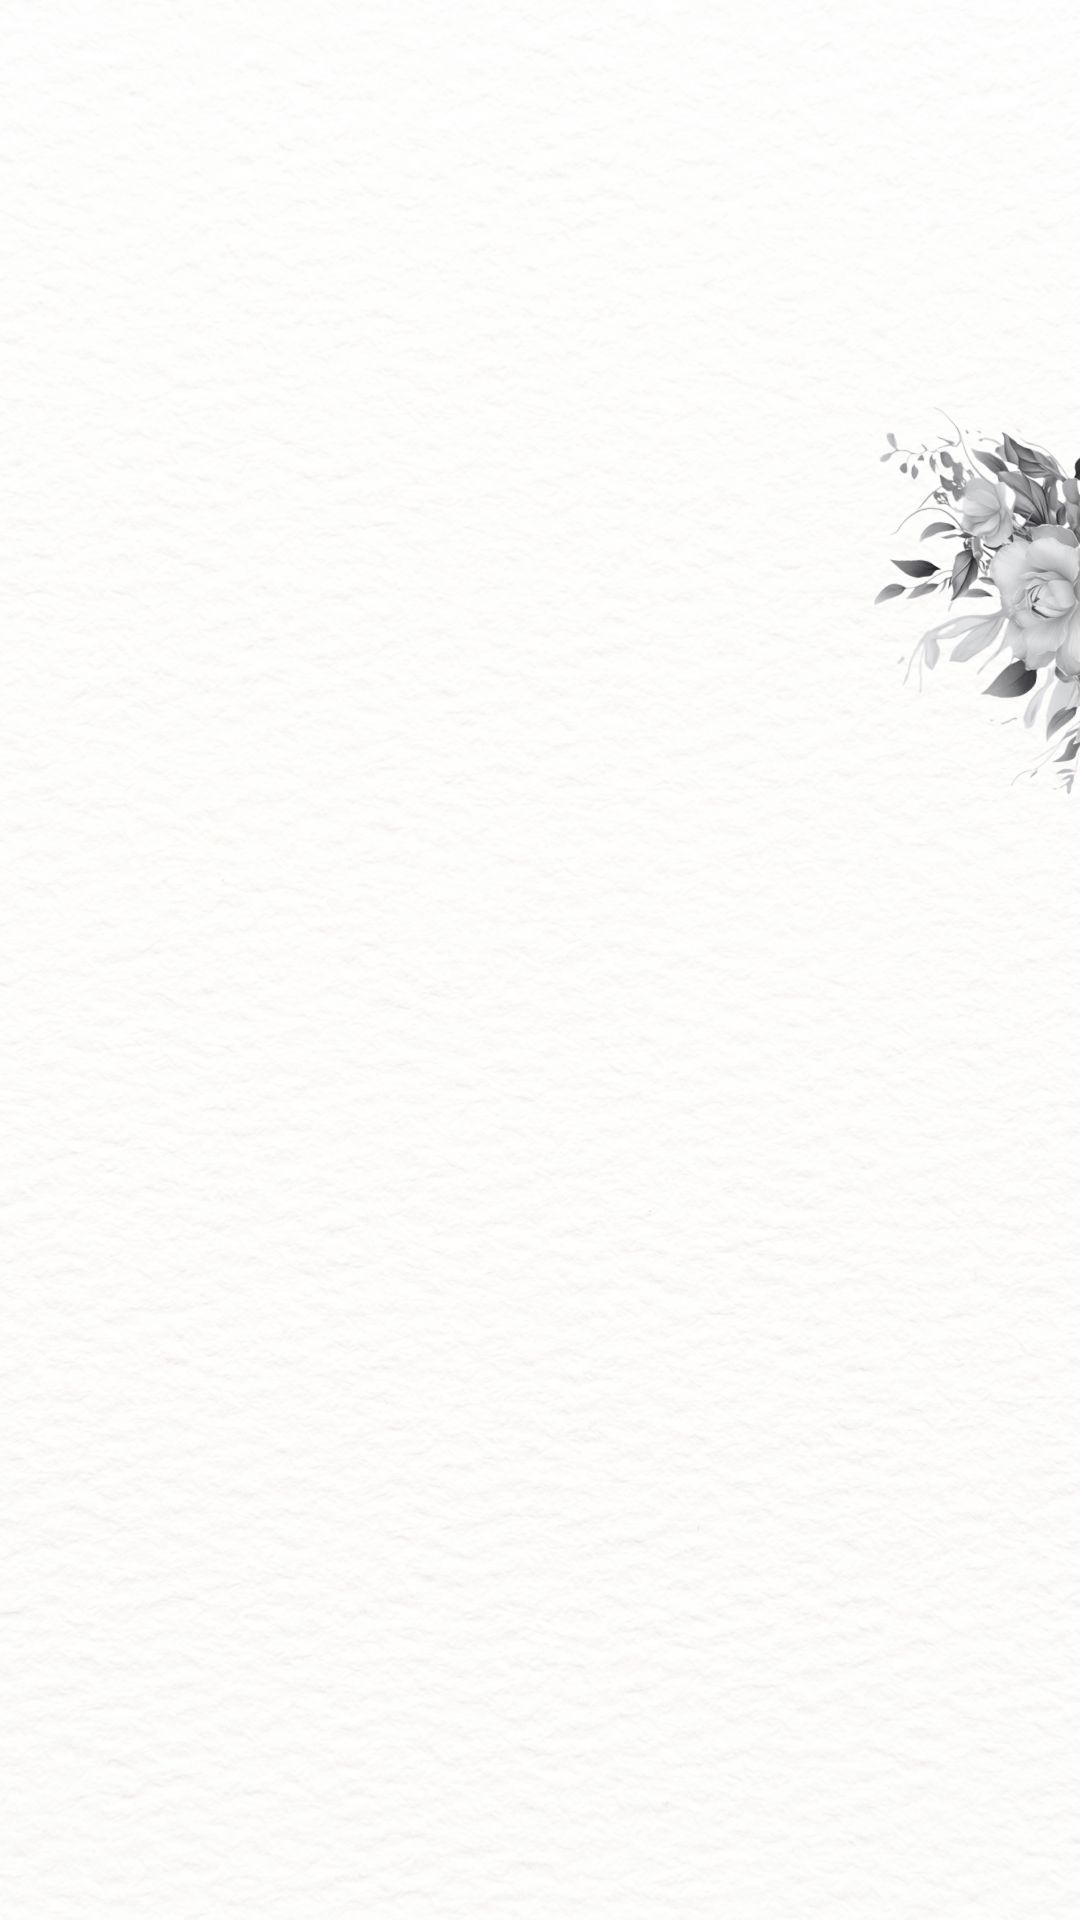
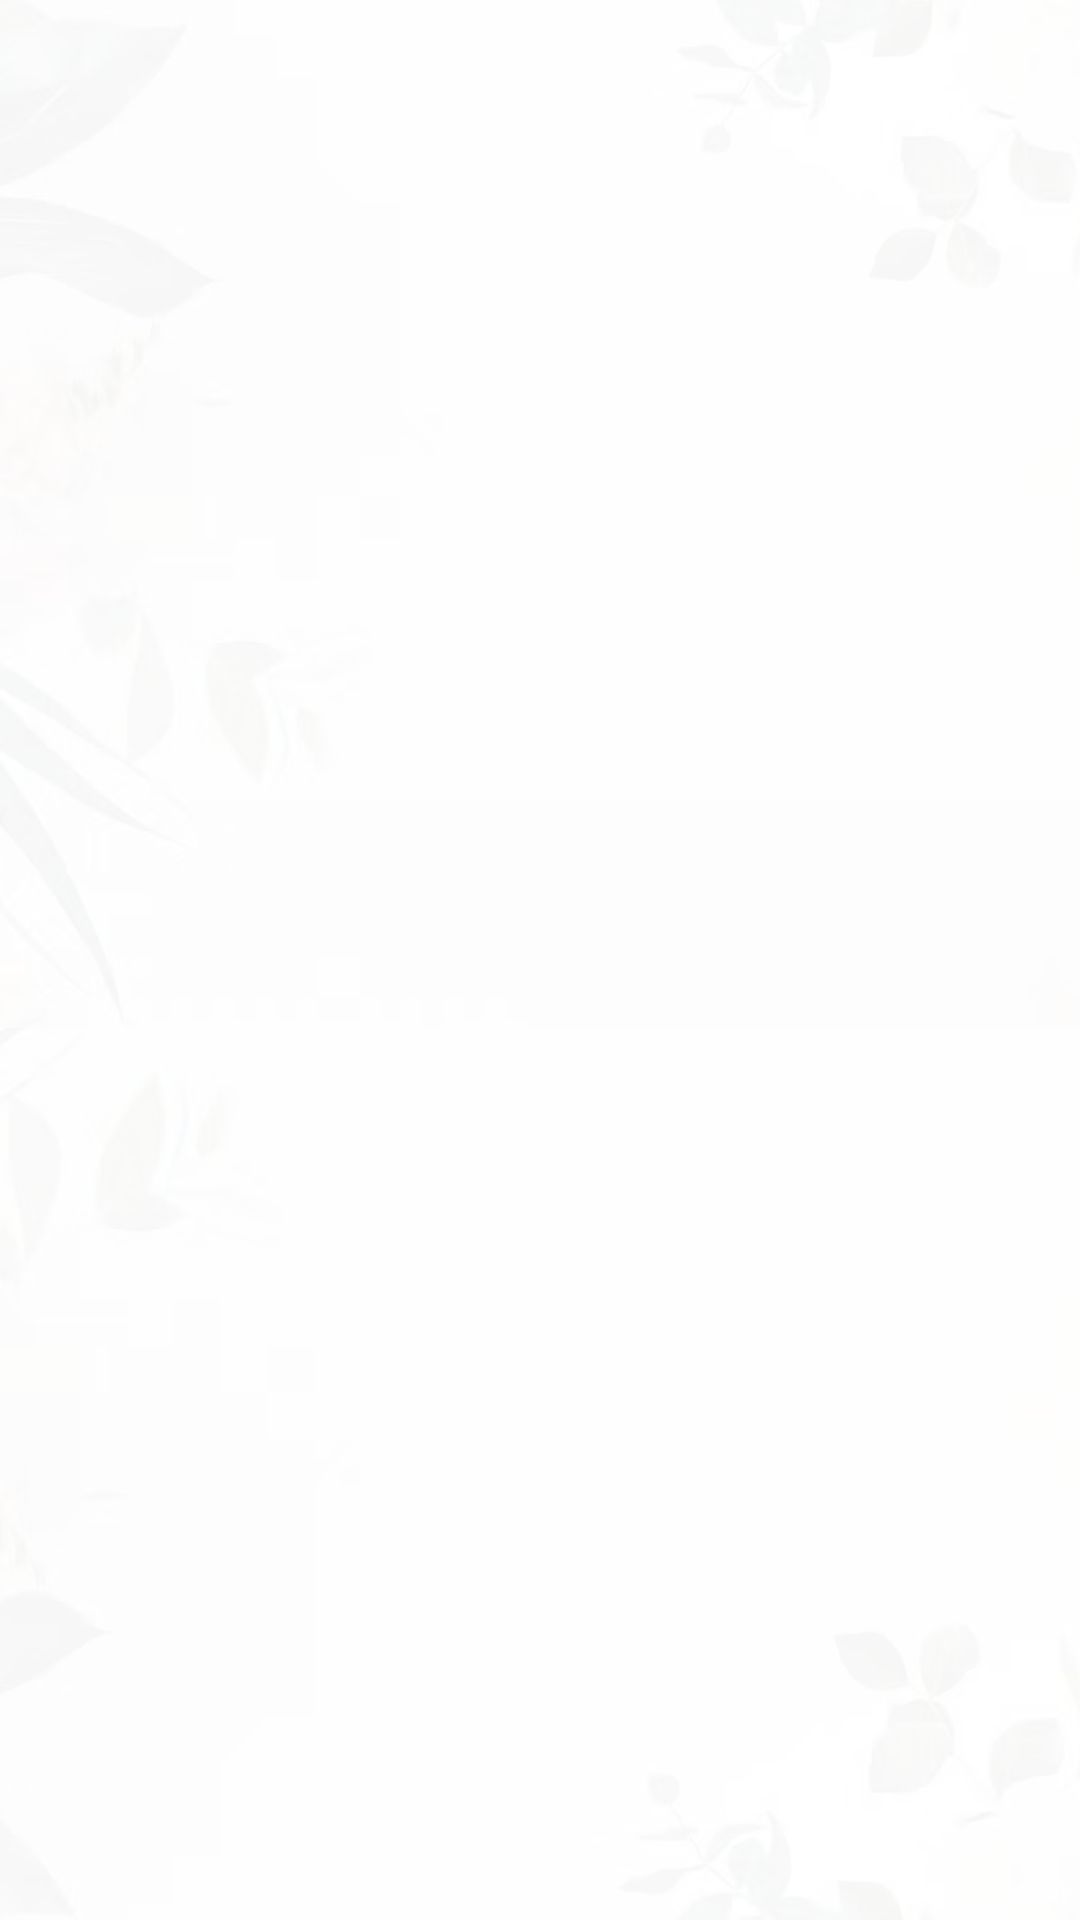
cuatro

Changed region(s): [[0.825, 0.2188, 1.0, 0.4062]]

diff --git a/index.html b/index.html
@@ -97,7 +97,6 @@
 
 
 
-<img class="flor" src="./imagenes/FLORDOS.png" alt="">
 <br>
   <img class="almanaque" src="./imagenes/almanaque.png" alt="">
 
@@ -105,9 +104,9 @@
    <br>jamás pierde la fé, siempre <br> tiene esperanza, y se mantiene <br> firme
    en toda circunstancia.  <br> Corintios 13:7  <br> <br> <b>Testigos</b> <br> <br>
 
-José Daniel Plaza & Gabriela Robles <br>
+José Daniel Plaza <br> &  <br>Gabriela Robles <br><br>
 
-Belen Amanda plaza & franco ledesma </h1>
+Belen Amanda plaza <br>& <br>franco ledesma </h1>
 <br>
 
 
@@ -134,6 +133,33 @@ Belen Amanda plaza & franco ledesma </h1>
  </p>
 
  <button type="submit" onclick="return exito()" class="css-button-arrow--sand">como llegar</button>
+
+
+
+
+  <div id="carouselExampleFade" class="carousel slide carousel-fade">
+  <div class="carousel-inner">
+    <div class="carousel-item active">
+      <img src="./imagenes/7.jpeg" class="d-block w-100" alt="...">
+    </div>
+    <div class="carousel-item">
+      <img src="./imagenes/8.jpeg" class="d-block w-100" alt="...">
+    </div>
+    <div class="carousel-item">
+      <img src="./imagenes/9.jpeg" class="d-block w-100" alt="...">
+    </div>
+  </div>
+  <button class="carousel-control-prev" type="button" data-bs-target="#carouselExampleFade" data-bs-slide="prev">
+    <span class="carousel-control-prev-icon" aria-hidden="true"></span>
+    <span class="visually-hidden">Previous</span>
+  </button>
+  <button class="carousel-control-next" type="button" data-bs-target="#carouselExampleFade" data-bs-slide="next">
+    <span class="carousel-control-next-icon" aria-hidden="true"></span>
+    <span class="visually-hidden">Next</span>
+  </button>
+</div>
+  
+  
 
 
 
@@ -192,13 +218,51 @@ Belen Amanda plaza & franco ledesma </h1>
    Alias:
 <br>
 <br>
-     ¡Empezó la cuenta regresiva!🖤
+     ¡Empezó la cuenta regresiva!💙
  
 
    
 <br>
 
 
+
+  
+    <p class="parrafo13">Nosotros</p>
+
+  <img class="galeria" src="./imagenes/camara.png" alt="" srcset="">
+  </div>
+  <div id="carouselExampleAutoplaying" class="carousel slide" data-bs-ride="carousel">
+    <div class="carousel-inner">
+      <div class="carousel-item active">
+        <img src="./imagenes/2.jpeg" class="d-block w-100" alt="...">
+      </div>
+      <div class="carousel-item">
+        <img src="./imagenes/3.jpeg" class="d-block w-100" alt="...">
+      </div>
+      <div class="carousel-item">
+        <img src="./imagenes/4.jpeg" class="d-block w-100" alt="...">
+      </div>
+ <div class="carousel-item">
+        <img src="./imagenes/5.jpeg" class="d-block w-100" alt="...">
+      </div>
+       <div class="carousel-item">
+        <img src="./imagenes/6.jpeg" class="d-block w-100" alt="...">
+      </div>
+    <button class="carousel-control-prev" type="button" data-bs-target="#carouselExampleAutoplaying" data-bs-slide="prev">
+      <span class="carousel-control-prev-icon" aria-hidden="true"></span>
+      <span class="visually-hidden">Previous</span>
+    </button>
+    <button class="carousel-control-next" type="button" data-bs-target="#carouselExampleAutoplaying" data-bs-slide="next">
+      <span class="carousel-control-next-icon" aria-hidden="true"></span>
+      <span class="visually-hidden">Next</span>
+    </button>
+  </div>
+
+
+
+    <p class="final">Los esperamos</p>
+    <img class="florfinal" src="./imagenes/FLORDOS.png" alt="">
+   <img class="coral" src="./imagenes/NOVIOS.png" alt="">
 
 
 

diff --git a/style.css b/style.css
@@ -1,7 +1,7 @@
 * body {
     padding: 0;
     box-sizing: border-box;
-  background-image: url(./imagenes/FONDO.png);
+  background-image: url(./imagenes/FONDO.jpg);
   background-size: 100%;
    
   }
@@ -80,8 +80,8 @@ padding-top: 2%;
  }
 .almanaque{
   width: 70%;
-  margin-left: 15%;
-  margin-top: -5%;
+  margin-left: 17%;
+  margin-top: -1%;
  
 }
 .flor{
@@ -175,7 +175,7 @@ margin-top: -17%;
   font-family: 'Julius Sans One', sans-serif;
    font-size: 19px;
    color: #3c578d;
-   font-weight: 800;
+   font-weight: 1000;
    margin-top: 15%;
    
 }
@@ -277,8 +277,8 @@ margin-top: -17%;
   text-align: center;
   font-family: 'Julius Sans One', sans-serif;
    font-size: 19px;
-   color: #141414;
-   font-weight: 800;
+   color: #3c578d;
+   font-weight: 1000;
    margin-top: 15%;
    
 }
@@ -295,8 +295,8 @@ margin-top: -17%;
   text-align: center;
   font-family: 'Julius Sans One', sans-serif;
    font-size: 19px;
-   color: #060606;
-   font-weight: 800;
+   color: #3c578d;
+   font-weight: 1000;
  margin-top: 10%;
 }
 .parrafo9{
@@ -312,8 +312,8 @@ margin-top: -17%;
   text-align: center;
   font-family: 'Julius Sans One', sans-serif;
    font-size: 19px;
-   color: #040404;
-   font-weight: 800;
+   color: #3c578d;
+   font-weight: 1000;
  margin-top: 25%;
 }
 .parrafo11{
@@ -331,8 +331,8 @@ margin-top: -17%;
   text-align: center;
   font-family: 'Julius Sans One', sans-serif;
    font-size: 19px;
-   color: #C29150;
-   font-weight: 800;
+   color: #3c578d;
+   font-weight: 1000;
 margin-top: 15%;
 }
 .percha{
@@ -398,9 +398,9 @@ margin-top: 15%;
   margin-left: 28%;
 }
 .florfinal{
-  width: 25%;
-  margin-top: -2%;
-  margin-left: 38%;
+  width: 40%;
+  margin-top: 2%;
+  margin-left: 31%;
 }
 
 
@@ -409,6 +409,12 @@ margin-top: 15%;
   border-radius: 5%;
   margin-top: 10%;
 }
+.carousel-innerdos img{
+  width: 80%;
+  border-radius: 5%;
+  margin-top: 10%;
+}
+
 
 
 
